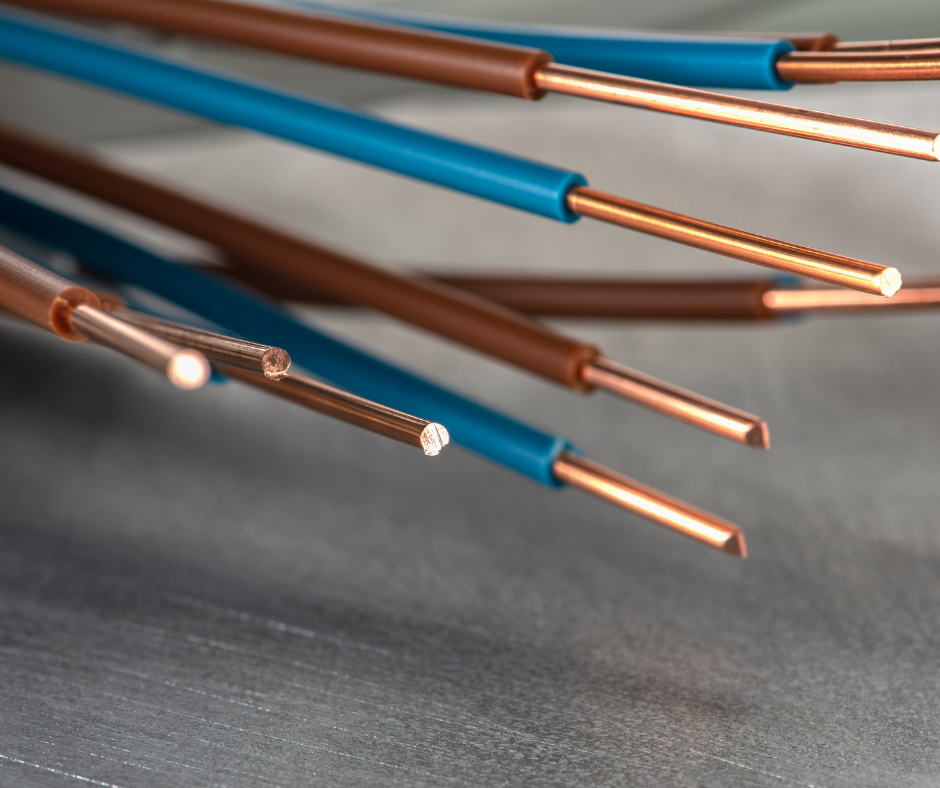
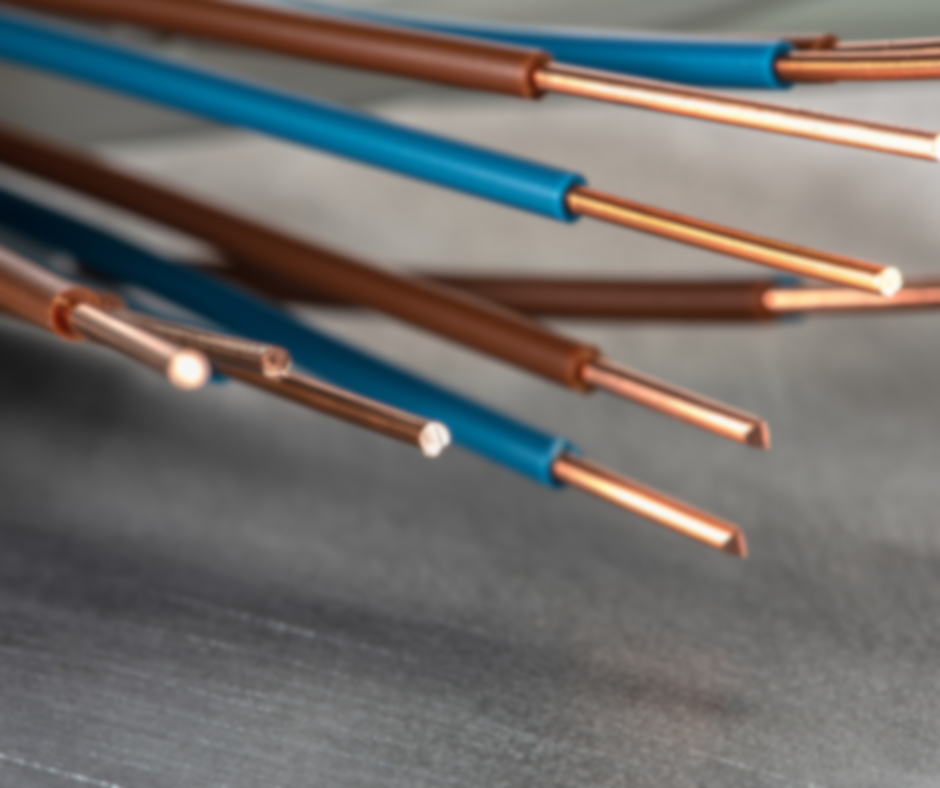
new home page

diff --git a/client/src/components/Home/HomePage.module.css b/client/src/components/Home/HomePage.module.css
@@ -19,11 +19,11 @@ body {
     align-items: center;
     position: absolute;
     z-index: 1;
-    background-image: url("../../../public/bb3.png");
+    background-image: url("../../../public/homie.webp");
     /* background-image: url("https://www.aurubis.com/.imaging/resizer/640/400/50-50/dam/jcr:f6457253-4502-48b0-9d9f-66f5891cb1da/181008_131.jpg?imageFormat=webp"); */
     background-size: cover;
     background-repeat: no-repeat;
-    filter: blur(3px);
+    /* filter: blur(3px); */
     /* filter: saturate(0.8); */
 }
 

diff --git a/client/src/components/Home/HomePage.js b/client/src/components/Home/HomePage.js
@@ -6,7 +6,7 @@ const HomePage = React.memo(() => {
 
     return (
         <div id="name" className={style.home}>
-            <IoMdStar className={style.star} size="2rem" color="rgb(238, 236, 236)" />
+            <IoMdStar className={style.star} size="2rem" color="white" />
             <div className={style.cont}></div>
             <div className={style.content}>
                     JD Jain and Company proudly presents its manufacturing unit JDJ Alloys as it embarks on a groundbreaking venture.

diff --git a/client/src/components/ContactUs/ContactUs.module.css b/client/src/components/ContactUs/ContactUs.module.css
@@ -1,7 +1,7 @@
 .ContactUs {
     width: 100vw;
     height: 100vh;
-    background-image: url("../../../public/contact.jpg");
+    background-image: url("https://i.ibb.co/qMQzDf4/contact.jpg");
     background-repeat: no-repeat;
     background-size: cover;
     box-sizing: border-box;

diff --git a/client/src/components/AboutUs/AboutUs.module.css b/client/src/components/AboutUs/AboutUs.module.css
@@ -2,7 +2,7 @@
     box-sizing: border-box;
     height: 100vh;
     width: 100vw;
-    background-image: url("../../../public/b1.png");
+    background-image: url("https://i.ibb.co/SR939Vn/b1.png");
     background-repeat: no-repeat;
     background-size: cover;
     display: flex;
